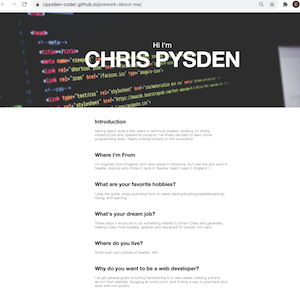
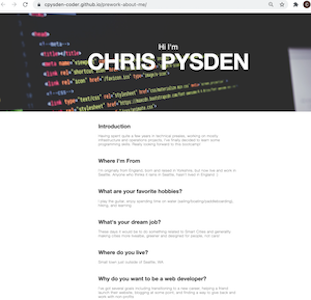
minor mods after project 1

diff --git a/index.html b/index.html
@@ -5,7 +5,7 @@
     <meta charset="UTF-8">
     <meta http-equiv="X-UA-Compatible" content="IE=edge">
     <meta name="viewport" content="width=device-width, initial-scale=1.0">
-    <title>Advanced CSS About Me</title>
+    <title>About Me</title>
     <link rel="stylesheet" href="./assets/css/reset.css">
     <link rel="stylesheet" href="./assets/css/style.css">
     <link rel="preconnect" href="https://fonts.googleapis.com">
@@ -103,7 +103,7 @@
             <article class="col-5 card-title">
                 <h2>Password Generator</h2>
                 <a href="https://cpysden-coder.github.io/js-password-generator/" target="_blank">Random Password Generator App</a>
-                <img src="./assets/images/pwd-gen.png" alt="password generator">
+                <img src="./assets/images/pwd-gen.png" alt="password generator" class="cover">
             </article>
         </div>
 

diff --git a/assets/css/style.css b/assets/css/style.css
@@ -176,7 +176,9 @@ footer {
     opacity: 0.75;
 }
 
-
+.cover {
+    object-fit: cover;
+}
 
 .image-splash {
     background-image: url('../images/splash-page.png');
